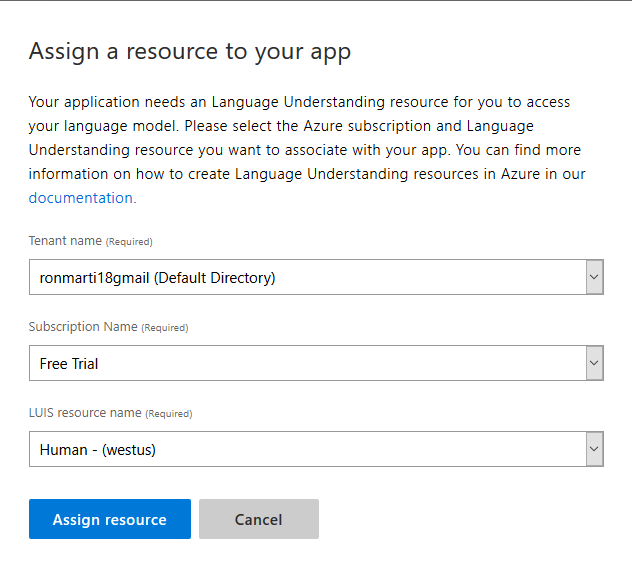
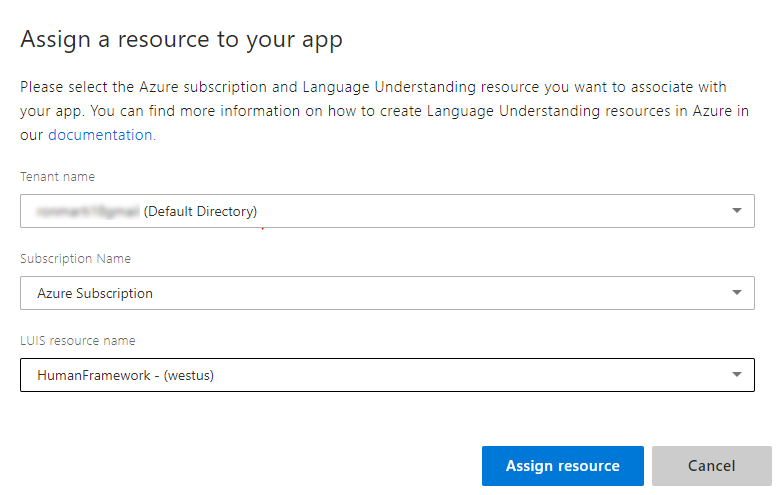
Update README

diff --git a/README.md b/README.md
@@ -86,7 +86,7 @@ For example, the intent "**web.open_browser**" will use [Selenium](https://www.s
 
 ### Connecting Azure account to LUIS.ai and publishing
 
-1. Click `MANAGE` > `Keys and Endpoints` > `Assign resource`
+1. Click `MANAGE` > `Azure Resources` > `Add prediction resource`
 
     ![Manage LUIS.ai](images/manage-luis.PNG)
     
@@ -94,11 +94,14 @@ For example, the intent "**web.open_browser**" will use [Selenium](https://www.s
 
     ![Assign a resource to your app](images/assign-a-resource-to-your-app.PNG)
     
-3. Click `Publish`, select `Environment` and then click the `Publish` button
+3. Click `Publish`, select `Production` and then click the `Publish` button
 
     ![Publish LUIS.ai app](images/publish-app.PNG)
     
-4. Go back to `Keys and Endpoints` and select the environment you used to publish your app (labeled `URL referencing slot`)
+4. Go back to `Azure Resources`. If you published your application to `Staging` environment, use `Change query parameters` to switch between environments.
+
+    ![Copy Endpoint](images/copy-endpoint.PNG)
+    
 5. Copy the endpoint assigned resource in #2
 
 **NOTE: After copying the endpoint, enter it to a browser's address bar to make sure that it is accessible., Otherwise, repeat the steps or use the `Starter_Key` which will only give you 1000 API calls**

diff --git a/CHANGELOG.md b/CHANGELOG.md
@@ -2,6 +2,9 @@
 
 ## Unreleased
 
+## 0.6.2 - 2019-09-09
+- Update README
+
 ## 0.6.1 - 2019-09-08
 ### Changed
 - Update README and setup.cfg
